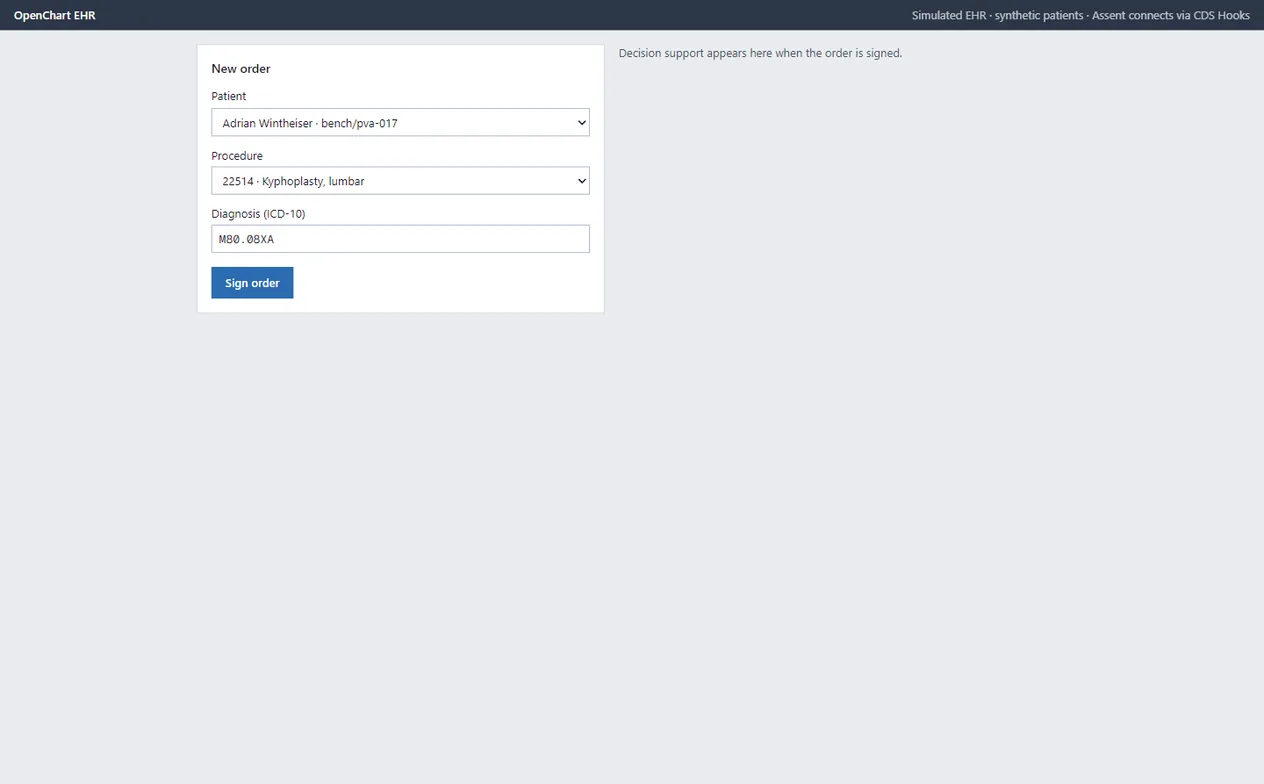
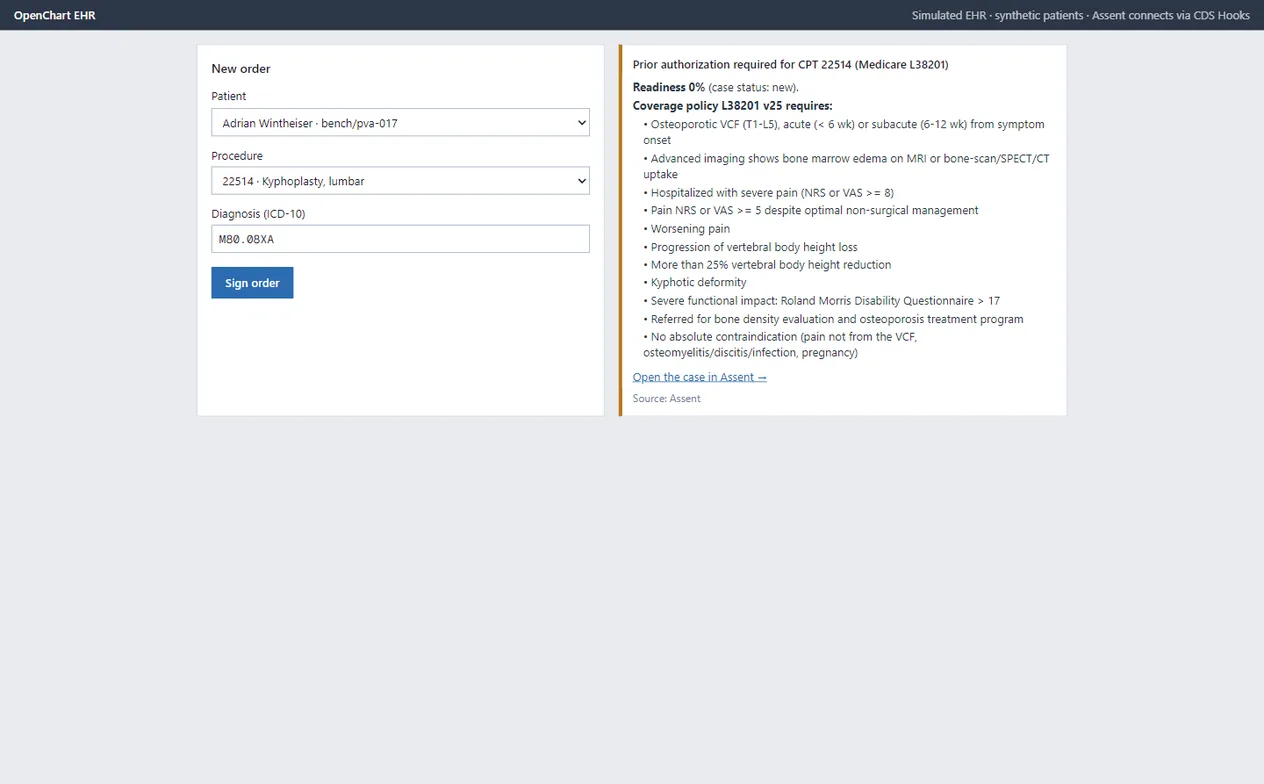
UI revamp G+H: /evals, /demo and the signed-in app in the porcelain system
- /evals: headline figure strip, n/a instead of dashes; /demo and /login light-only
- login: split layout with the folder still; layered btn-primary/link-quiet components
- app shell: sunk rail, raised top bar, squircle avatar, dead disabled search removed,
  rail Evals points at the real /evals page
- case workspace: citation chips without one-sided borders (signal underline),
  explicit disabled Approve with the reason, criteria graph loading state, thin scrollbars
- worklist: sticky header, Not run instead of a dash
- chapter 8 product screens recaptured from the restyled app (CDS card signed)
- dev badge off so scripted captures are clean

Changed region(s): [[0.4628, 0.0612, 0.8331, 0.5204]]

diff --git a/apps/web/components/case/DecisionPane.tsx b/apps/web/components/case/DecisionPane.tsx
@@ -365,13 +365,13 @@ export function DecisionPane({
                 <button
                   type="button"
                   onClick={() => onCite(c.chunk_id, sel.key)}
-                  className="w-full rounded-[var(--radius-control)] border-l-2 border-signal/50 bg-paper py-1.5 pr-2 pl-2.5 text-left hover:bg-signal-soft/40"
+                  className="w-full rounded-[var(--radius-control)] bg-paper-raised px-2.5 py-1.5 text-left ring-1 ring-rule transition-colors duration-[var(--dur-1)] hover:bg-signal-soft/40 hover:ring-signal/40"
                 >
-                  <span className="font-mono text-[12px] leading-snug text-ink">
+                  <span className="font-mono text-xs leading-snug text-ink underline decoration-signal/45 underline-offset-[3px]">
                     “{c.quote}”
                   </span>
                   <span
-                    className={`mt-1 block text-[11px] ${c.verified ? "text-signal" : "text-fail"}`}
+                    className={`mt-1 block text-xs ${c.verified ? "text-signal" : "text-fail"}`}
                   >
                     {c.verified
                       ? "✓ Verbatim in chart · grounded"
@@ -522,7 +522,7 @@ export function DecisionPane({
                   ? setAck(true)
                   : act("approve")
               }
-              className="h-9 flex-1 rounded-[var(--radius-control)] bg-signal font-medium text-paper disabled:opacity-40"
+              className="h-9 flex-1 rounded-[var(--radius-control)] bg-signal font-medium text-paper-raised transition-colors duration-[var(--dur-1)] hover:bg-signal-deep disabled:cursor-not-allowed disabled:bg-paper-sunk disabled:text-ink-3"
             >
               {decided ? "Approved" : "Approve for packet"}
             </button>
@@ -530,11 +530,12 @@ export function DecisionPane({
               type="button"
               disabled={!finished || pending || decided}
               onClick={() => act("reject")}
-              className="h-9 rounded-[var(--radius-control)] border border-rule px-3 text-ink-2 disabled:opacity-40"
+              className="h-9 rounded-[var(--radius-control)] border border-rule px-3 text-ink-2 hover:text-ink disabled:cursor-not-allowed disabled:text-ink-3/70"
             >
               Reject
             </button>
           </div>
+          {!finished && !decided && <p className="text-xs text-ink-3">Run the case to approve or reject it.</p>}
         </div>
       )}
     </div>

diff --git a/apps/web/app/globals.css b/apps/web/app/globals.css
@@ -125,6 +125,11 @@
   p {
     text-wrap: pretty;
   }
+  /* Thin themed scrollbars (the chart list and panes used to show native arrows). */
+  * {
+    scrollbar-width: thin;
+    scrollbar-color: var(--rule) transparent;
+  }
   :focus-visible {
     outline: 2px solid var(--focus);
     outline-offset: 2px;
@@ -234,37 +239,40 @@
   }
 }
 
-.btn-primary {
-  display: inline-flex;
-  height: 3rem;
-  align-items: center;
-  border-radius: var(--radius-control);
-  background: var(--signal);
-  padding: 0 1.375rem;
-  font-weight: 500;
-  color: var(--paper-raised);
-  transition:
-    background-color var(--dur-2) var(--ease-out),
-    transform var(--dur-1) var(--ease-out);
-  touch-action: manipulation;
-}
-.btn-primary:hover {
-  background: var(--signal-deep);
-}
-.btn-primary:active {
-  transform: translateY(1px);
-}
+/* Components, layered so utilities (h-*, px-*) can still adjust them. */
+@layer components {
+  .btn-primary {
+    display: inline-flex;
+    height: 3rem;
+    align-items: center;
+    border-radius: var(--radius-control);
+    background: var(--signal);
+    padding: 0 1.375rem;
+    font-weight: 500;
+    color: var(--paper-raised);
+    transition:
+      background-color var(--dur-2) var(--ease-out),
+      transform var(--dur-1) var(--ease-out);
+    touch-action: manipulation;
+  }
+  .btn-primary:hover {
+    background: var(--signal-deep);
+  }
+  .btn-primary:active {
+    transform: translateY(1px);
+  }
 
-.link-quiet {
-  color: var(--ink-2);
-  text-decoration: underline;
-  text-decoration-color: var(--rule);
-  text-underline-offset: 4px;
-  transition: color var(--dur-2) var(--ease-out), text-decoration-color var(--dur-2) var(--ease-out);
-}
-.link-quiet:hover {
-  color: var(--ink);
-  text-decoration-color: var(--ink-3);
+  .link-quiet {
+    color: var(--ink-2);
+    text-decoration: underline;
+    text-decoration-color: var(--rule);
+    text-underline-offset: 4px;
+    transition: color var(--dur-2) var(--ease-out), text-decoration-color var(--dur-2) var(--ease-out);
+  }
+  .link-quiet:hover {
+    color: var(--ink);
+    text-decoration-color: var(--ink-3);
+  }
 }
 
 /* Paper grain: fixed, non-interactive, above the world and below nothing that matters. */

diff --git a/apps/web/app/(marketing)/evals/page.tsx b/apps/web/app/(marketing)/evals/page.tsx
@@ -6,7 +6,7 @@ export const metadata: Metadata = { title: "Benchmark", description: "How well A
 type Fam = { family: string; n_cases: number; criterion_macro_f1: number; case_accuracy: number; citation_precision: number | null; unsupported_claim_rate: number | null; latency_p50_s: number; cost_per_case_usd: number; false_ready: number; false_not_ready: number };
 type Cmp = Omit<Fam, "family"> & { system: string };
 
-const pct = (x: number | null | undefined, d = 0) => (x == null ? "—" : `${(x * 100).toFixed(d)}%`);
+const pct = (x: number | null | undefined, d = 0) => (x == null ? "n/a" : `${(x * 100).toFixed(d)}%`);
 const NAME: Record<string, string> = { esi: "Epidural steroid injection", hgns: "Hypoglossal nerve stimulation", pva: "Vertebral augmentation", all: "All three" };
 
 function FamilyTable({ rows, caption }: { rows: Fam[]; caption: string }) {
@@ -65,6 +65,20 @@ export default function EvalsPage() {
         and marked <strong className="text-ink">{all.false_ready}</strong> unproven cases ready to submit. Every mistake it made held a case back for
         a human instead of sending a weak one. Below are the method, the numbers, and the failures.
       </p>
+      <dl className="mt-12 grid grid-cols-2 gap-x-6 gap-y-8 border-y border-rule py-8 sm:grid-cols-4">
+        {[
+          { v: `${Math.round(all.case_accuracy * all.n_cases)} / ${all.n_cases}`, l: "decisions correct" },
+          { v: String(all.false_ready), l: "unproven cases marked ready" },
+          { v: pct(all.unsupported_claim_rate), l: "unsupported claims" },
+          { v: `$${all.cost_per_case_usd.toFixed(3)}`, l: "per case" },
+        ].map((f) => (
+          <div key={f.l}>
+            <dt className="sr-only">{f.l}</dt>
+            <dd className="display text-[2rem] leading-none tabular">{f.v}</dd>
+            <dd className="mt-2 text-sm text-ink-2">{f.l}</dd>
+          </div>
+        ))}
+      </dl>
 
       <h2 className={H2}>Method</h2>
       <div className="mt-4 space-y-4 text-ink-2">

diff --git a/apps/web/app/login/page.tsx b/apps/web/app/login/page.tsx
@@ -27,11 +27,11 @@ export default async function LoginPage({
 }) {
   const { error } = await searchParams;
   const field =
-    "mt-1.5 h-10 w-full rounded-[var(--radius-control)] border border-rule bg-paper-raised px-3 text-md text-ink placeholder:text-ink-3";
+    "mt-1.5 h-11 w-full rounded-[var(--radius-control)] border border-rule bg-paper-raised px-3 text-md text-ink placeholder:text-ink-3 transition-colors duration-[var(--dur-1)] hover:border-ink-3/60 focus-visible:border-signal";
 
   return (
-    <main id="main" className="grid min-h-dvh place-items-center px-6">
-      <div className="w-full max-w-sm">
+    <main id="main" className="theme-light grid min-h-dvh lg:grid-cols-[minmax(0,1fr)_minmax(0,1.1fr)]">
+      <div className="mx-auto flex w-full max-w-sm flex-col justify-center px-6 py-16">
         <Link href="/" className="wordmark text-2xl">
           Assent
         </Link>
@@ -66,7 +66,7 @@ export default async function LoginPage({
           )}
           <button
             type="submit"
-            className="h-10 w-full rounded-[var(--radius-control)] bg-signal font-medium text-paper transition-opacity duration-[var(--dur-1)] hover:opacity-90"
+            className="btn-primary h-11 w-full justify-center"
           >
             Sign in
           </button>
@@ -75,6 +75,11 @@ export default async function LoginPage({
         <p className="mt-8 font-mono text-xs text-ink-3">
           Synthetic patients only. No PHI. Demo password: assent-dev
         </p>
+      </div>
+      {/* The landing's opening still: the chart folder in porcelain light. */}
+      <div aria-hidden="true" className="relative hidden overflow-hidden border-l border-rule bg-paper-sunk lg:block">
+        {/* eslint-disable-next-line @next/next/no-img-element -- decorative still, sized by its container */}
+        <img src="/world/posters/hero.webp" alt="" className="absolute inset-0 h-full w-full object-cover object-[70%_50%]" />
       </div>
     </main>
   );

diff --git a/apps/web/components/shell/TopBar.tsx b/apps/web/components/shell/TopBar.tsx
@@ -1,10 +1,9 @@
-import { Search } from "lucide-react";
 import type { ReactNode } from "react";
 import { MonoChip } from "@/components/ui/MonoChip";
 
 export type TopBarUser = { name: string; role: string };
 
-/** 48px top bar: breadcrumb, ⌘K trigger, SYNTHETIC DATA badge, user menu (FRONTEND §6.1). */
+/** 48px top bar: breadcrumb, SYNTHETIC DATA badge, user menu (FRONTEND §6.1). */
 export function TopBar({
   breadcrumb,
   user,
@@ -22,27 +21,17 @@ export function TopBar({
     .toUpperCase();
 
   return (
-    <header className="flex h-12 shrink-0 items-center gap-4 border-b border-rule px-4">
+    <header className="flex h-12 shrink-0 items-center gap-4 border-b border-rule bg-paper-raised/60 px-4">
       <div className="min-w-0 flex-1 truncate text-ink-2">{breadcrumb}</div>
-      {/* Command palette lands in Phase 3; the trigger is here so the layout doesn't shift. */}
-      <button
-        type="button"
-        disabled
-        className="flex h-8 w-56 items-center gap-2 rounded-[var(--radius-control)] border border-rule px-2.5 text-ink-3 disabled:cursor-not-allowed"
-      >
-        <Search size={14} strokeWidth={1.5} aria-hidden="true" />
-        <span className="flex-1 text-left">Search</span>
-        <kbd className="font-mono text-xs">⌘K</kbd>
-      </button>
       <MonoChip tone="gap">Synthetic data</MonoChip>
       <form action={signOut} className="flex items-center gap-2">
         <span
           title={`${user.name} · ${user.role.replace("_", " ")}`}
-          className="grid size-7 place-items-center rounded-full bg-ink text-xs font-medium text-paper"
+          className="grid size-7 place-items-center rounded-[8px] bg-ink text-xs font-medium text-paper"
         >
           {initials}
         </span>
-        <button type="submit" className="text-ink-3 hover:text-ink">
+        <button type="submit" className="py-2 text-ink-2 hover:text-ink">
           Sign out
         </button>
       </form>

diff --git a/apps/web/app/(app)/app/worklist/page.tsx b/apps/web/app/(app)/app/worklist/page.tsx
@@ -22,7 +22,7 @@ export default async function WorklistPage() {
   return (
     <div className="px-6 py-5">
       <div className="flex items-baseline justify-between">
-        <h1 className="display text-xl">Worklist</h1>
+        <h1 className="display text-2xl">Worklist</h1>
         <span className="font-mono text-xs text-ink-3 tabular">{data ? `${data.items.length} cases` : ""}</span>
       </div>
 
@@ -40,7 +40,7 @@ export default async function WorklistPage() {
         </div>
       ) : (
         <table className="mt-4 w-full border-collapse text-left">
-          <thead className="text-xs text-ink-3">
+          <thead className="sticky top-0 z-10 bg-paper text-xs text-ink-3">
             <tr className="border-b border-rule">
               <th className="h-8 pr-4 font-normal">Patient</th>
               <th className="pr-4 font-normal">Service</th>
@@ -71,7 +71,7 @@ export default async function WorklistPage() {
                           <div className={`h-full rounded-full ${r >= 1 ? "bg-signal" : "bg-gap"}`} style={{ width: `${Math.round(r * 100)}%` }} />
                         )}
                       </div>
-                      <span className="font-mono text-xs text-ink-2 tabular">{r == null ? "—" : `${Math.round(r * 100)}%`}</span>
+                      <span className="font-mono text-xs text-ink-2 tabular">{r == null ? "Not run" : `${Math.round(r * 100)}%`}</span>
                     </div>
                   </td>
                   <td className="pr-4 text-sm">

diff --git a/apps/web/components/case/PacketPanel.tsx b/apps/web/components/case/PacketPanel.tsx
@@ -63,10 +63,10 @@ function AppealEditor({ caseId, appeal }: { caseId: string; appeal: Appeal }) {
       <ul aria-label="New evidence for the appeal" className="space-y-1.5">
         {cites.flatMap(([key, list]) =>
           list.map((c, i) => (
-            <li key={`${key}-${i}`} className="rounded-[var(--radius-control)] border-l-2 border-signal/50 bg-paper py-1 pr-2 pl-2.5">
+            <li key={`${key}-${i}`} className="rounded-[var(--radius-control)] bg-paper-raised px-2.5 py-1 ring-1 ring-rule">
               <span className="block text-[10px] text-ink-3 uppercase">{String(c.criterion_label ?? key)}</span>
-              <span className="font-mono text-[12px] text-ink">“{String(c.quote)}”</span>
-              <span className="mt-0.5 block text-[11px] text-signal">✓ Verbatim in chart · grounded</span>
+              <span className="font-mono text-xs text-ink underline decoration-signal/45 underline-offset-[3px]">“{String(c.quote)}”</span>
+              <span className="mt-0.5 block text-xs text-signal">✓ Verbatim in chart · grounded</span>
             </li>
           )),
         )}

diff --git a/apps/web/components/shell/RailNav.tsx b/apps/web/components/shell/RailNav.tsx
@@ -19,7 +19,7 @@ const items: { href: string; label: string; icon: LucideIcon }[] = [
   { href: "/app/worklist", label: "Worklist", icon: Inbox },
   { href: "/app/policies", label: "Policies", icon: ScrollText },
   { href: "/app/analytics", label: "Analytics", icon: BarChart3 },
-  { href: "/app/evals", label: "Evals", icon: FlaskConical },
+  { href: "/evals", label: "Evals", icon: FlaskConical },
   { href: "/app/audit", label: "Audit", icon: ShieldCheck },
   { href: "/app/settings", label: "Settings", icon: Settings },
 ];
@@ -33,7 +33,7 @@ export function RailNav() {
   return (
     <nav
       aria-label="Primary"
-      className="flex shrink-0 flex-col border-r border-rule bg-paper transition-[width] duration-[var(--dur-2)] ease-[var(--ease-out)]"
+      className="flex shrink-0 flex-col border-r border-rule bg-paper-sunk/60 transition-[width] duration-[var(--dur-2)] ease-[var(--ease-out)]"
       style={{ width: open ? 220 : 56 }}
     >
       <Link href="/app/worklist" className="wordmark flex h-12 items-center px-[18px] text-xl">

diff --git a/apps/web/components/graph/CriteriaGraph2D.tsx b/apps/web/components/graph/CriteriaGraph2D.tsx
@@ -90,7 +90,12 @@ function Graph({ root, sourceId, title, selected, onSelect }: Props) {
 
   // Mount React Flow only once ELK has placed the nodes, and let its built-in fitView (which
   // waits for measurement) frame them; fitting from an effect raced the layout.
-  if (!nodes.length) return null;
+  if (!nodes.length)
+    return (
+      <p role="status" className="grid h-full place-items-center text-sm text-ink-3">
+        Laying out {raw.filter((n) => n.type === "leaf").length} criteria…
+      </p>
+    );
   return (
     <ReactFlow
       nodes={nodes}

diff --git a/apps/web/next.config.ts b/apps/web/next.config.ts
@@ -6,6 +6,7 @@ import path from "node:path";
 // loaded (and cached) apps/web's env by now, so without it this call silently does nothing.
 loadEnvConfig(path.resolve(__dirname, "../.."), process.env.NODE_ENV !== "production", console, true);
 
-const nextConfig: NextConfig = {};
+// No dev badge: scripted screenshots (posters, product screens) are taken from the dev server.
+const nextConfig: NextConfig = { devIndicators: false };
 
 export default nextConfig;

diff --git a/apps/web/app/demo/page.tsx b/apps/web/app/demo/page.tsx
@@ -11,9 +11,10 @@ export const metadata: Metadata = {
 // No login: a real recorded run replays through the same workspace components the app uses.
 export default function DemoPage() {
   return (
-    <>
+    // Public page: light only, like the rest of the marketing site (DESIGN.md).
+    <div className="theme-light min-h-dvh">
       <Nav />
       <DemoWorkspace demo={demo as unknown as DemoBundle} />
-    </>
+    </div>
   );
 }

diff --git a/apps/web/components/marketing/Nav.tsx b/apps/web/components/marketing/Nav.tsx
@@ -25,7 +25,7 @@ export function Nav() {
           <Link href="/login" className="py-2 text-ink-2 hover:text-ink">
             Sign in
           </Link>
-          <Link href="/demo" className="btn-primary !h-10 !px-4 text-sm">
+          <Link href="/demo" className="btn-primary h-10 px-4 text-sm">
             Run a live case
           </Link>
         </div>
